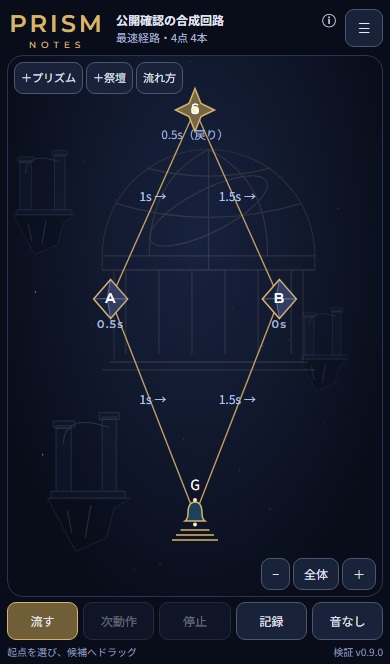
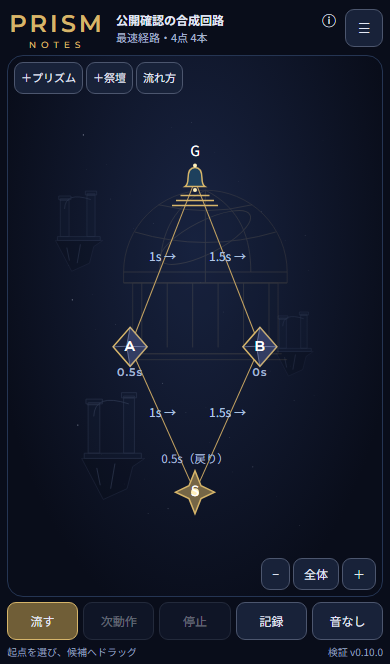
Record verified 0.10.0 deployment and orientation device checks

diff --git a/docs/acceptance-status.md b/docs/acceptance-status.md
@@ -1,8 +1,8 @@
 # 受入条件と現在の証拠
 
-0.10.0候補では、発案者の指摘に従い縦の出発点を下・ゴールを上に直し、横置きでも画面全体の配置を端末に対して保つ。文字・ボタンの中身だけを読める向きへ回す。既存回路の保存座標と時間・採点を変更しない。最終資材の自動テスト82件・構文37ファイル・29資材ビルド、PC方向保持28・通常操作70・文字拡大847・記録28・世界観と負荷22・通信なし48・更新と復旧58項目が合格。Windows Chrome/Edgeでも各方向保持14・通常35・通信なし24・更新復旧29項目が合格した。公開はまだ0.9.0で、配信後の証拠を追記する。[配置保持の点検](reviews/2026-10-13-orientation-frame.md)を参照。スマホの仕様不一致の回答を合格へ変更せず、Android/iPhone・macOS/iPadの実機確認を維持する。
+2026-10-13。要件定義書v1.9のAC-01～26、F-001～026、NF-001～008を維持する。公開版0.10.0はコミット83aa0efbc0e60d7f540fc975da839356d3ab15fbと公開38項目を照合した。これは完了宣言ではなく、確認した部分と未確認部分の対応表である。要件から実装タスクへの対応の正典は[tasks.md](tasks.md)。
 
-2026-10-13。要件定義書v1.9のAC-01～26、F-001～026、NF-001～008を維持する。公開版0.9.0はコミット938b953ba7bcf35ff6836578fd326da5e4bd3e8aと公開37項目を照合した。これは完了宣言ではなく、確認した部分と未確認部分の対応表である。要件から実装タスクへの対応の正典は[tasks.md](tasks.md)。
+公開版0.10.0では、発案者の指摘に従い縦の出発点を下・ゴールを上に直し、横置きでも画面全体の配置を端末に対して保つ。文字・ボタンの中身だけを読める向きへ回す。既存回路の保存座標と時間・採点は維持する。自動テスト82件・構文37ファイル・29資材ビルド、PC方向保持28・通常操作70・文字拡大847・記録28・世界観と負荷22・通信なし48・更新と復旧58項目が合格。Windows Chrome/Edgeでも各方向保持14・通常35・通信なし24・更新復旧29項目が合格した。[公開URL](https://gerupon-lgtm.github.io/prism/)の版・コミット・資材・操作38項目も確認済み。[配置保持の点検](reviews/2026-10-13-orientation-frame.md)を参照。Android/iPhone・macOS/iPadの実機確認は未完了で、全26機能・非機能8項目と全対象を維持する。
 
 ## 証拠の読み方
 
@@ -19,7 +19,7 @@
 | AC-03 | simulation.test.js：全宛先の計画3秒と実到着3/4秒。通信なし試験の3宛先・共有ゲート・待ち列2粒 | 全対象実機の表示・負荷・音 |
 | AC-04 | simulation.test.js：分岐、直前道を除く、別の平行道で戻る。通信なし循環見本の到着4/5/7/8秒 | 実機で再来・分岐の表示と操作 |
 | AC-05 | simulation.test.jsの固定例：1/1.2秒に到着、1/1.5秒開始、1.5/2秒終了、待ち0/0.3秒 | 計算と記録の証拠。実機の読みやすさは別 |
-| AC-06 | simulation.test.js：鐘で終了、行き止まりがゲートを塞がない。0.7.0世界観22項目は到着ごとの演出と音要素生成、通信なし試験は可視結果と音API | 実際の音・0.5秒間隔・同時多数音・余韻の聴感 |
+| AC-06 | simulation.test.js：鐘で終了、行き止まりがゲートを塞がない。0.10.0世界観22項目は到着ごとの演出と音要素生成、通信なし試験は可視結果と音API | 実際の音・0.5秒間隔・同時多数音・余韻の聴感 |
 | AC-07 | simulation/session.test.js：停止後の条件と記録、新規実行、一時停止。通信なし試験は停止前の記録を保持 | 全対象実機の回転・画面離脱と粒・待ち列保持 |
 | AC-08 | simulation.test.js：同時刻・0秒処理を含む連続実行と次動作の全記録一致。通信なし試験も次動作で終了まで操作 | 全対象実機の再生・次動作・表示 |
 | AC-09 | evaluation/session.test.js：独立故障・最悪ケース・不達ケース、元条件と全件の出力。通信なし試験は全7ケースの個別再生 | 全対象実機の一覧・詳細・ケース選択 |
@@ -27,19 +27,19 @@
 | AC-11 | storage/session.test.jsと通信なし試験：実際の10保存・置換取消・選択枠だけ更新・読込取消と保存保護 | 実容量不足・実機の読込/保存画面 |
 | AC-12 | storage.test.js：回路往復の同条件・全記録一致、結果ファイルの回路読込拒否。通信なし試験の実ファイル出力/読込 | 異なる実端末間のファイル受け渡しと再実行 |
 | AC-13 | load-meter/simulation.test.js：処理中断後の全記録一致。通信なし試験は合成135ms停止で全3粒・時計・待ち列・全24記録を照合 | 各実機で計算・実描画・音・記録の負荷を測り、暫定停止基準を評価 |
-| AC-14 | 0.9.0通常操作70、0.8.0文字拡大847、0.7.0記録28、通信なし試験の回転・拡縮・移動。両モード案内 | 全対象実機の縦横・回転中断・キーボード・指・長押し・OS文字拡大・消音での理解 |
-| AC-15 | 版付きビルド28資材と構文検査。0.9.0公開37項目、CIジョブ成功・表示版・全資材のハッシュと配信形式 | 実機PWAの更新適用 |
+| AC-14 | 0.10.0方向保持28・Windows各14、通常操作70、文字拡大847、記録28、通信なし試験の回転・拡縮・移動。両モード案内 | 全対象実機の縦横・回転中断・キーボード・指・長押し・OS文字拡大・消音での理解 |
+| AC-15 | 版付きビルド29資材と構文検査。0.10.0公開38項目、CIジョブ成功・表示版・全資材のハッシュと配信形式 | 実機PWAの更新適用 |
 | AC-16 | simulation.test.js：初回即時と戻った出発点での処理、2/2.2秒に戻った粒の順番待ち | 計算の証拠。実機の待ち列表示は別 |
-| AC-17 | 0.8.0の未達成でscore=nullという不足を発見。0.9.0では確定した未達成のみ0点、達成時のみ保存候補。全評価方式・判定待ち・中断をsession.test.jsで照合。通信なし48項目で実表示・書出・最高点保持と0点の16表示条件を確認。公開37項目は資材の一致と100点達成の証拠 | 時間＋本数の具体式は技術案のまま |
-| AC-18 | 0.9.0通信なし48項目で保存1秒→未保存2秒→再読込→保存1秒。回路保存キーが変わらないことも比較 | 実機OS終了・保存領域整理とは別 |
-| AC-19 | 0.9.0公開URLから登録なしで実操作、配信対象はdistのみ。アプリから回路・結果を自動送信する処理なし | 利用者のデータを公開証拠へ混ぜない |
-| AC-20 | 0.9.0更新・復旧58、通信なし48項目は実際のWorkerからタブ再起動・両モード・保存・ファイルを操作 | 各実機で端末へ追加、接続を切りOS側で終了/再起動、実際の音と全機能 |
-| AC-21 | storage/session.test.js：最高点・採点版・保存失敗候補の保持。0.9.0通信なし48項目は低得点・未達成でも既存6成績保持 | 全対象実機の終了/再起動・実容量 |
-| AC-22 | storage.test.js：名前変更で内容保持。0.8.0文字拡大847は仮名・長い名前と入力保持。通信なし試験の名前変更・読込 | 実機の入力・全選択・貼付とソフトウェアキーボード |
-| AC-23 | storage.test.js：対象だけ削除。0.8.0文字拡大847と通信なし試験は対象名全文・取消・他の保存枠と成績保持 | 全対象実機の対象確認・操作 |
+| AC-17 | 0.8.0の未達成でscore=nullという不足を発見。0.10.0では確定した未達成のみ0点、達成時のみ保存候補。全評価方式・判定待ち・中断をsession.test.jsで照合。通信なし48項目で実表示・書出・最高点保持と0点の16表示条件を確認。公開38項目は資材の一致と100点達成の証拠 | 時間＋本数の具体式は技術案のまま |
+| AC-18 | 0.10.0通信なし48項目で保存1秒→未保存2秒→再読込→保存1秒。回路保存キーが変わらないことも比較 | 実機OS終了・保存領域整理とは別 |
+| AC-19 | 0.10.0公開URLから登録なしで実操作、配信対象はdistのみ。アプリから回路・結果を自動送信する処理なし | 利用者のデータを公開証拠へ混ぜない |
+| AC-20 | 0.10.0更新・復旧58、通信なし48項目は実際のWorkerからタブ再起動・両モード・保存・ファイルを操作 | 各実機で端末へ追加、接続を切りOS側で終了/再起動、実際の音と全機能 |
+| AC-21 | storage/session.test.js：最高点・採点版・保存失敗候補の保持。0.10.0通信なし48項目は低得点・未達成でも既存6成績保持 | 全対象実機の終了/再起動・実容量 |
+| AC-22 | storage.test.js：名前変更で内容保持。0.10.0文字拡大847は仮名・長い名前と入力保持。通信なし試験の名前変更・読込 | 実機の入力・全選択・貼付とソフトウェアキーボード |
+| AC-23 | storage.test.js：対象だけ削除。0.10.0文字拡大847と通信なし試験は対象名全文・取消・他の保存枠と成績保持 | 全対象実機の対象確認・操作 |
 | AC-24 | session/storage.test.jsと通信なし試験：失敗で元保存・回路・入力保持、ファイル退避、同じフォームで再試行 | 実容量不足・実機のファイル保存/受渡 |
-| AC-25 | session.test.js：案内で元実行を一時停止し、回路・実行・結果・表示位置を戻す。0.9.0通信なし48項目は元の全記録・条件・評価・時計の一致 | 各実機の表示位置と案内からの復帰 |
-| AC-26 | session/storage.test.js：完了/スキップ・モード独立・保存失敗で完了捏造なし。0.9.0通信なし48項目は履歴書込失敗の再試行・合成消失と両モードの再案内 | 実機での履歴保持/消失と案内 |
+| AC-25 | session.test.js：案内で元実行を一時停止し、回路・実行・結果・表示位置を戻す。0.10.0通信なし48項目は元の全記録・条件・評価・時計の一致 | 各実機の表示位置と案内からの復帰 |
+| AC-26 | session/storage.test.js：完了/スキップ・モード独立・保存失敗で完了捏造なし。0.10.0通信なし48項目は履歴書込失敗の再試行・合成消失と両モードの再案内 | 実機での履歴保持/消失と案内 |
 
 ## 非機能8項目
 
@@ -56,11 +56,11 @@
 
 ## 全対象環境と進め方
 
-発案者が利用可能と示した環境はWindows Chrome/Edge、Android Chrome、iPhone Safari。Android/iPhoneのOS・ブラウザ版と実際の結果は未確認で、利用可能という回答を合格へ変えない。最初の手順は[実機確認の入口](device-checks.md)。下表のWindows追加確認は[Windows点検](reviews/2026-10-13-windows-browsers.md)で版と証拠を分ける。
+発案者が利用可能と示した環境はWindows Chrome/Edge、Android Chrome、iPhone Safari。Android/iPhoneのOS・ブラウザ版と実際の結果は未確認で、利用可能という回答を合格へ変えない。最初の手順は[実機確認の入口](device-checks.md)。下表の0.10.0確認は[配置保持の点検](reviews/2026-10-13-orientation-frame.md)、以前の0.9.0確認は[Windows点検](reviews/2026-10-13-windows-browsers.md)で分ける。
 
 | 環境 | 現時点で観測した範囲 | 未確認 |
 |---|---|---|
-| Windows Chrome・Edge | Chrome 154.0.8037.99・Edge 155.0.4283.45を使い捨て状態で0.9.0通常各35・通信なし各24・更新復旧各29を確認。旧版の記録・文字拡大、同梱PC両エンジンと公開の証拠も別に保持 | 人のキーボード/タッチ操作、実際の音と総負荷、インストールとOS終了後の保持、各ブラウザ全受入条件 |
+| Windows Chrome・Edge | Chrome 154.0.8037.99・Edge 155.0.4283.45を使い捨て状態で0.10.0方向保持各14・通常各35・通信なし各24・更新復旧各29を確認。旧版の記録・文字拡大、同梱PC両エンジンと公開の証拠も別に保持 | 人のキーボード/タッチ操作、実際の音と総負荷、インストールとOS終了後の保持、各ブラウザ全受入条件 |
 | macOS Chrome・Safari | 該当実機の証拠なし | 全受入条件・端末とOS/ブラウザ版の確認 |
 | Android Chrome | 該当実機の証拠なし | 全受入条件・縦横・キーボード・長押し・PWA・音・負荷 |
 | iPhone Safari | 該当実機の証拠なし | 全受入条件・縦横・キーボード・長押し・PWA・音・負荷 |

diff --git a/README.md b/README.md
@@ -1,14 +1,12 @@
 # プリズム・ノーツ：要件・基本設計の引継ぎ入口
 
-0.10.0候補では、発案者の指摘に従い縦の出発点を下・ゴールを上に直し、横置きでも画面全体の配置を端末に対して保つ。文字・ボタンの中身だけを読める向きへ回す。既存回路の保存座標と時間・採点を変更しない。最終資材の自動テスト82件・構文37ファイル・29資材ビルド、PC方向保持28・通常操作70・文字拡大847・記録28・世界観と負荷22・通信なし48・更新と復旧58項目が合格。Windows Chrome/Edgeでも各方向保持14・通常35・通信なし24・更新復旧29項目が合格した。公開はまだ0.9.0で、配信後の証拠を追記する。[配置保持の点検](docs/reviews/2026-10-13-orientation-frame.md)を参照。スマホの仕様不一致の回答を合格へ変更せず、Android/iPhone・macOS/iPadの実機確認を維持する。
-
 ## 現在の実装（2026-10-13）
 
-発案者の指示により、設計資料に基づく実装と、このGitHubリポジトリへの反映・デプロイを確認不要で進めている。[公開URL](https://gerupon-lgtm.github.io/prism/)は現在0.9.0。未達成の0点表示・出力を補い、最高点を更新しない。自動テスト76件・通常操作70項目・通信なし48項目・更新と復旧58項目、公開37項目が合格した。0.8.0の文字拡大847項目と今回の0点16表示条件は別の証拠。全26機能・非機能8項目と全対象実機を維持する。[実装状況](docs/implementation-status.md)・[受入条件と証拠](docs/acceptance-status.md)を参照。npm.cmd run devで起動、npm.cmd run buildで版付き資材を生成する。実機の操作・音・負荷は未確認で、初期版完成とは扱わない。
+公開版0.10.0では、発案者の指摘に従い縦の出発点を下・ゴールを上に直し、横置きでも画面全体の配置を端末に対して保つ。文字・ボタンの中身だけを読める向きへ回す。既存回路の保存座標と時間・採点は維持する。自動テスト82件・構文37ファイル・29資材ビルド、PC方向保持28・通常操作70・文字拡大847・記録28・世界観と負荷22・通信なし48・更新と復旧58項目が合格。Windows Chrome/Edgeでも各方向保持14・通常35・通信なし24・更新復旧29項目が合格した。[公開URL](https://gerupon-lgtm.github.io/prism/)の版・コミット・資材・操作38項目も確認済み。[配置保持の点検](docs/reviews/2026-10-13-orientation-frame.md)を参照。Android/iPhone・macOS/iPadの実機確認は未完了で、全26機能・非機能8項目と全対象を維持する。
 
-インストール済みWindows Chrome・Edgeでも、各ブラウザで通常35・通信なし24・更新と復旧29項目が合格した。既存PC両エンジンの結果とは別の証拠で、アプリ資材の追加変更はない。[Windowsの確認](docs/reviews/2026-10-13-windows-browsers.md)・[実機確認の入口](docs/device-checks.md)を参照。利用可能との回答はWindows Chrome/Edge、Android Chrome、iPhone Safari。スマホの実際の結果はまだ未確認で、Mac・iPadも対象に残す。
+発案者の指示により設計資料に基づく実装と、このGitHubリポジトリへの反映・デプロイを確認不要で進めている。[実装状況](docs/implementation-status.md)・[受入条件と証拠](docs/acceptance-status.md)・[実機確認の入口](docs/device-checks.md)を参照。npm.cmd run devで起動、npm.cmd run buildで版付き資材を生成する。利用可能との回答はWindows Chrome/Edge、Android Chrome、iPhone Safari。スマホでの仕様不一致の指摘を修正の根拠として記録し、実機の合格へ変更しない。初期版完成とは扱わない。
 
-以下の実装・公開「未指示」という記載は設計時点の記録。最新の作業許可をこの冒頭とAGENTS.mdで確認する。共通コードの合格をゲーム画面・音・PWA・実機・公開の成功と混同しない。
+以下の実装・公開「未指示」という記載は設計時点の記録。最新の作業許可をこの冒頭とAGENTS.mdで確認する。
 
 ## 設計時点の記録
 

diff --git a/docs/device-checks.md b/docs/device-checks.md
@@ -1,14 +1,16 @@
 # 実機確認の進め方
 
-2026-10-13。確認用の公開版は0.9.0、[公開URL](https://gerupon-lgtm.github.io/prism/)。利用できる環境として、発案者からWindowsのChrome／Edge、AndroidのChrome、iPhoneのSafariが示された。Android/iPhoneのOS・ブラウザ版と実際の結果はまだ未確認。Windowsで取得した版と証拠は[Windowsの確認](reviews/2026-10-13-windows-browsers.md)を参照。Mac・iPadも要件の対象に残す。
+2026-10-13。確認用の公開版は0.10.0、[公開URL](https://gerupon-lgtm.github.io/prism/)。利用できる環境として、発案者からWindowsのChrome／Edge、AndroidのChrome、iPhoneのSafariが示された。Android/iPhoneのOS・ブラウザ版と実際の結果はまだ未確認。Windowsで取得した版と証拠は[Windowsの確認](reviews/2026-10-13-windows-browsers.md)を参照。Mac・iPadも要件の対象に残す。
 
 PCの自動操作では、指・画面キーボード・OSの文字拡大・スピーカーの音・ホーム画面への追加を確認できない。まず短い一連の操作で実機の問題を見つけ、その後[受入条件26項目と非機能8項目](acceptance-status.md)の不足を確認する。以下だけの合格で全受入条件の完了とはしない。
 
-2026-10-13の実機回答で0.9.0の配置不一致が指摘された。方向保持の修正は0.10.0候補でPC確認済み、公開後に版と手順を更新する。実機の合格は未確認。[修正の点検](reviews/2026-10-13-orientation-frame.md)を参照。
+2026-10-13の実機回答で0.9.0の配置不一致が指摘された。方向保持の修正は0.10.0で公開し、PCの公開38項目を確認済み。実機の合格は未確認。[修正の点検](reviews/2026-10-13-orientation-frame.md)を参照。
+
+旧版が表示される場合は「☰」→「オフラインと更新」→「準備・更新を確認」→「更新へ」→「更新を適用」と進む。案内・実行・未保存回路がある場合は画面の保護手順に従い、必要な記録・回路を保存してから適用する。保存済み回路・成績・案内履歴を削除して更新しない。
 
 ## 最初の一連の操作
 
-1. 公開URLを開き、画面下の版が0.9.0であることを確認する。端末・OS・ブラウザ版を記録する。案内が出た場合は表示を確認し、進めるかスキップする。
+1. 公開URLを開き、画面下の版が0.10.0であることを確認する。端末・OS・ブラウザ版を記録する。案内が出た場合は表示を確認し、進めるかスキップする。
 2. 課題1でSからA、AからGへドラッグしてつなぐ。再生前に「音なし」をタップして「音あり」にしてから再生する。初回到着2.5秒・100.00点の表示、到着時の鐘の音、結線候補が分かることを確認する。消音で音が止まることも確認する。到着後に音を有効にした場合は停止して再実行する。音の余韻は記録の到着時刻へ加算しない。
 3. 縦置きはSが下・Gが上であることを確認する。左へ90度倒すとSは右・Gは左、右へ倒すとSは左・Gは右となる。盤面と操作欄は端末に対して元の側を保ち、文字・ボタンの中身だけが読める方向へ回ることを確認する。点と道の配置を保ち、文字が読みやすい向きになること、ページをスクロールせず操作できること、回転前の実行・記録が残ることを確認する。盤面を長押しして不要なメニューが出ないことも確認する。
 4. 自由へ移る。自由の案内が出たら完了またはスキップし、練習から元の回路へ戻ってから設定・保存を確認する。点・道をダブルタップして設定を開く。時間欄が全選択されること、画面キーボードが出ても入力・確定・取消ができることを確認する。OSやブラウザの文字を大きくした場合も、設定・保存・記録の全文をページ切替で読め、文書スクロールが起きないことを確認する。

diff --git a/docs/tasks.md b/docs/tasks.md
@@ -1,12 +1,12 @@
 # プリズム・ノーツ 実装順と要件対応
 
-0.10.0候補では、発案者の指摘に従い縦の出発点を下・ゴールを上に直し、横置きでも画面全体の配置を端末に対して保つ。文字・ボタンの中身だけを読める向きへ回す。既存回路の保存座標と時間・採点を変更しない。最終資材の自動テスト82件・構文37ファイル・29資材ビルド、PC方向保持28・通常操作70・文字拡大847・記録28・世界観と負荷22・通信なし48・更新と復旧58項目が合格。Windows Chrome/Edgeでも各方向保持14・通常35・通信なし24・更新復旧29項目が合格した。公開はまだ0.9.0で、配信後の証拠を追記する。[配置保持の点検](reviews/2026-10-13-orientation-frame.md)を参照。スマホの仕様不一致の回答を合格へ変更せず、Android/iPhone・macOS/iPadの実機確認を維持する。
+ドラフトv0.1の実装順を継承し、2026-10-13の発案者の実装・デプロイ指示に基づき作業している。T-01～09を維持し、各タスク全体の完了や【想定】の一律承認を意味しない。
 
-ドラフトv0.1の実装順を継承し、2026-10-13の発案者の実装・デプロイ指示に基づき作業している。全26機能・非機能8項目、T-01～09を維持する。公開版0.9.0では確定した未達成の0点表示・出力を補い、自動テスト76件・通常操作70項目・通信なし48項目・更新と復旧58項目・公開37項目が合格。0.8.0の文字拡大847項目、0.7.0の記録28/世界観22項目を今回の再実行とは扱わない。[実装状況](implementation-status.md)と[受入条件の証拠](acceptance-status.md)で版・確認範囲・残る対象を読む。各タスク全体の完了や【想定】の一律承認を意味しない。
+公開版0.10.0では、発案者の指摘に従い縦の出発点を下・ゴールを上に直し、横置きでも画面全体の配置を端末に対して保つ。文字・ボタンの中身だけを読める向きへ回す。既存回路の保存座標と時間・採点は維持する。自動テスト82件・構文37ファイル・29資材ビルド、PC方向保持28・通常操作70・文字拡大847・記録28・世界観と負荷22・通信なし48・更新と復旧58項目が合格。Windows Chrome/Edgeでも各方向保持14・通常35・通信なし24・更新復旧29項目が合格した。[公開URL](https://gerupon-lgtm.github.io/prism/)の版・コミット・資材・操作38項目も確認済み。[配置保持の点検](reviews/2026-10-13-orientation-frame.md)を参照。Android/iPhone・macOS/iPadの実機確認は未完了で、全26機能・非機能8項目と全対象を維持する。
+
+[実装状況](implementation-status.md)と[受入条件の証拠](acceptance-status.md)で版・確認範囲・残る対象を読む。0.9.0以前の証拠はGit履歴と各点検資料へ保持する。
 
 ## 1. 要件との対応表（正典）
-
-Windows Chrome/Edgeの各35通常操作・24通信なし・29更新と復旧も合格し、既存PC両エンジンとは別の結果へ保存した。[Windowsの確認](reviews/2026-10-13-windows-browsers.md)を参照。利用可能と回答されたAndroid Chrome・iPhone Safariは[実機手順](device-checks.md)で観測する。Mac・iPadを含め全対象を維持し、端末があるという回答を検証済みへ変更しない。
 
 画面IDは[画面定義](screens.md)、データIDは[データ定義](data-model.md)を参照。各行の要求は確定、内部構成・タスク配分は【想定】。機能名は要件定義書を優先する。
 

diff --git a/docs/reviews/2026-10-13-orientation-frame.md b/docs/reviews/2026-10-13-orientation-frame.md
@@ -18,10 +18,12 @@
 
 方向APIと入力時の高さは合成条件。実機の指、方向通知、切り欠き、画面キーボードの証拠ではない。Android Chrome・iPhone Safariの利用可能という回答、今回の仕様不一致の指摘は記録するが、各実機の受入合格へ変更しない。macOS/iPadも対象に保つ。
 
-最終の0.10.0資材で通常操作70・文字拡大全7条件847・記録28・世界観と負荷22・通信なし48・更新と復旧58項目が合格した。文字拡大にはインストール済みWindows Chrome/Edgeの実際の最低/標準文字サイズ設定を含む。別途、Windows Chrome 154.0.8037.99とEdge 155.0.4283.45の各ブラウザで方向保持14・通常35・通信なし24・更新と復旧29項目、計204項目が合格した。構文37ファイルと29オフライン資材のビルドも合格。公開先の検証は配信後に追記する。
+最終の0.10.0資材で通常操作70・文字拡大全7条件847・記録28・世界観と負荷22・通信なし48・更新と復旧58項目が合格した。文字拡大にはインストール済みWindows Chrome/Edgeの実際の最低/標準文字サイズ設定を含む。別途、Windows Chrome 154.0.8037.99とEdge 155.0.4283.45の各ブラウザで方向保持14・通常35・通信なし24・更新と復旧29項目、計204項目が合格した。構文37ファイルと29オフライン資材のビルドも合格。公開コミット83aa0efbc0e60d7f540fc975da839356d3ab15fbの[Pagesジョブ](https://github.com/gerupon-lgtm/prism/actions/runs/38305434829)が成功。CIの構文37・テスト82（21＋37＋24）・29資材も照合した。公開版・コミット・28資材のハッシュ/配信形式、縦横のS/Gと操作枠、結線・100点・手動保存・結果/回路出力、ChromiumのHTTPキャッシュ削除後の通信断再起動を含む38項目が合格。公開WebKitの通信なしと実機は確認済みにしない。
 
 途中の不合格は設計検証/アプリ/device-frame-*.json、設計検証/文字拡大/device-frame-*.json、設計検証/オフライン機能/device-frame-result-overflow-v0.10.0.jsonへ保存し、最終report.jsonと分ける。通信なし48項目には未達成0点の通常/CSS28px・4寸法を両エンジンで確認した16表示条件を含む。
 
 文字拡大の診断用にcheck_text_layout.cjsへ`--configuration`を追加した。指定した条件だけの結果を同名の下位フォルダへ保存し、既定の全7条件を上書きしない。絞った121項目を全体の合格と扱わず、最後に全7条件を実行する。方向保持の検証器も`--channel chrome|msedge`でWindowsのインストール済みブラウザを個別確認できる。
 
 規約・仕様の読み取りレビューで、追加欄の移動、安全余白、主縦方向270度の境界を修正した。追加の確実な指摘はなく、実機未確認を維持している。
+
+0.9.0の以前のreport.jsonと画像はa7750058121afb009d8c43e3f98fd8fff6c0c74b時点へ保持し、最終report.jsonは0.10.0へ更新した。資料と公開確認の証拠だけの追加コミットでは同じ版を再デプロイしない。
